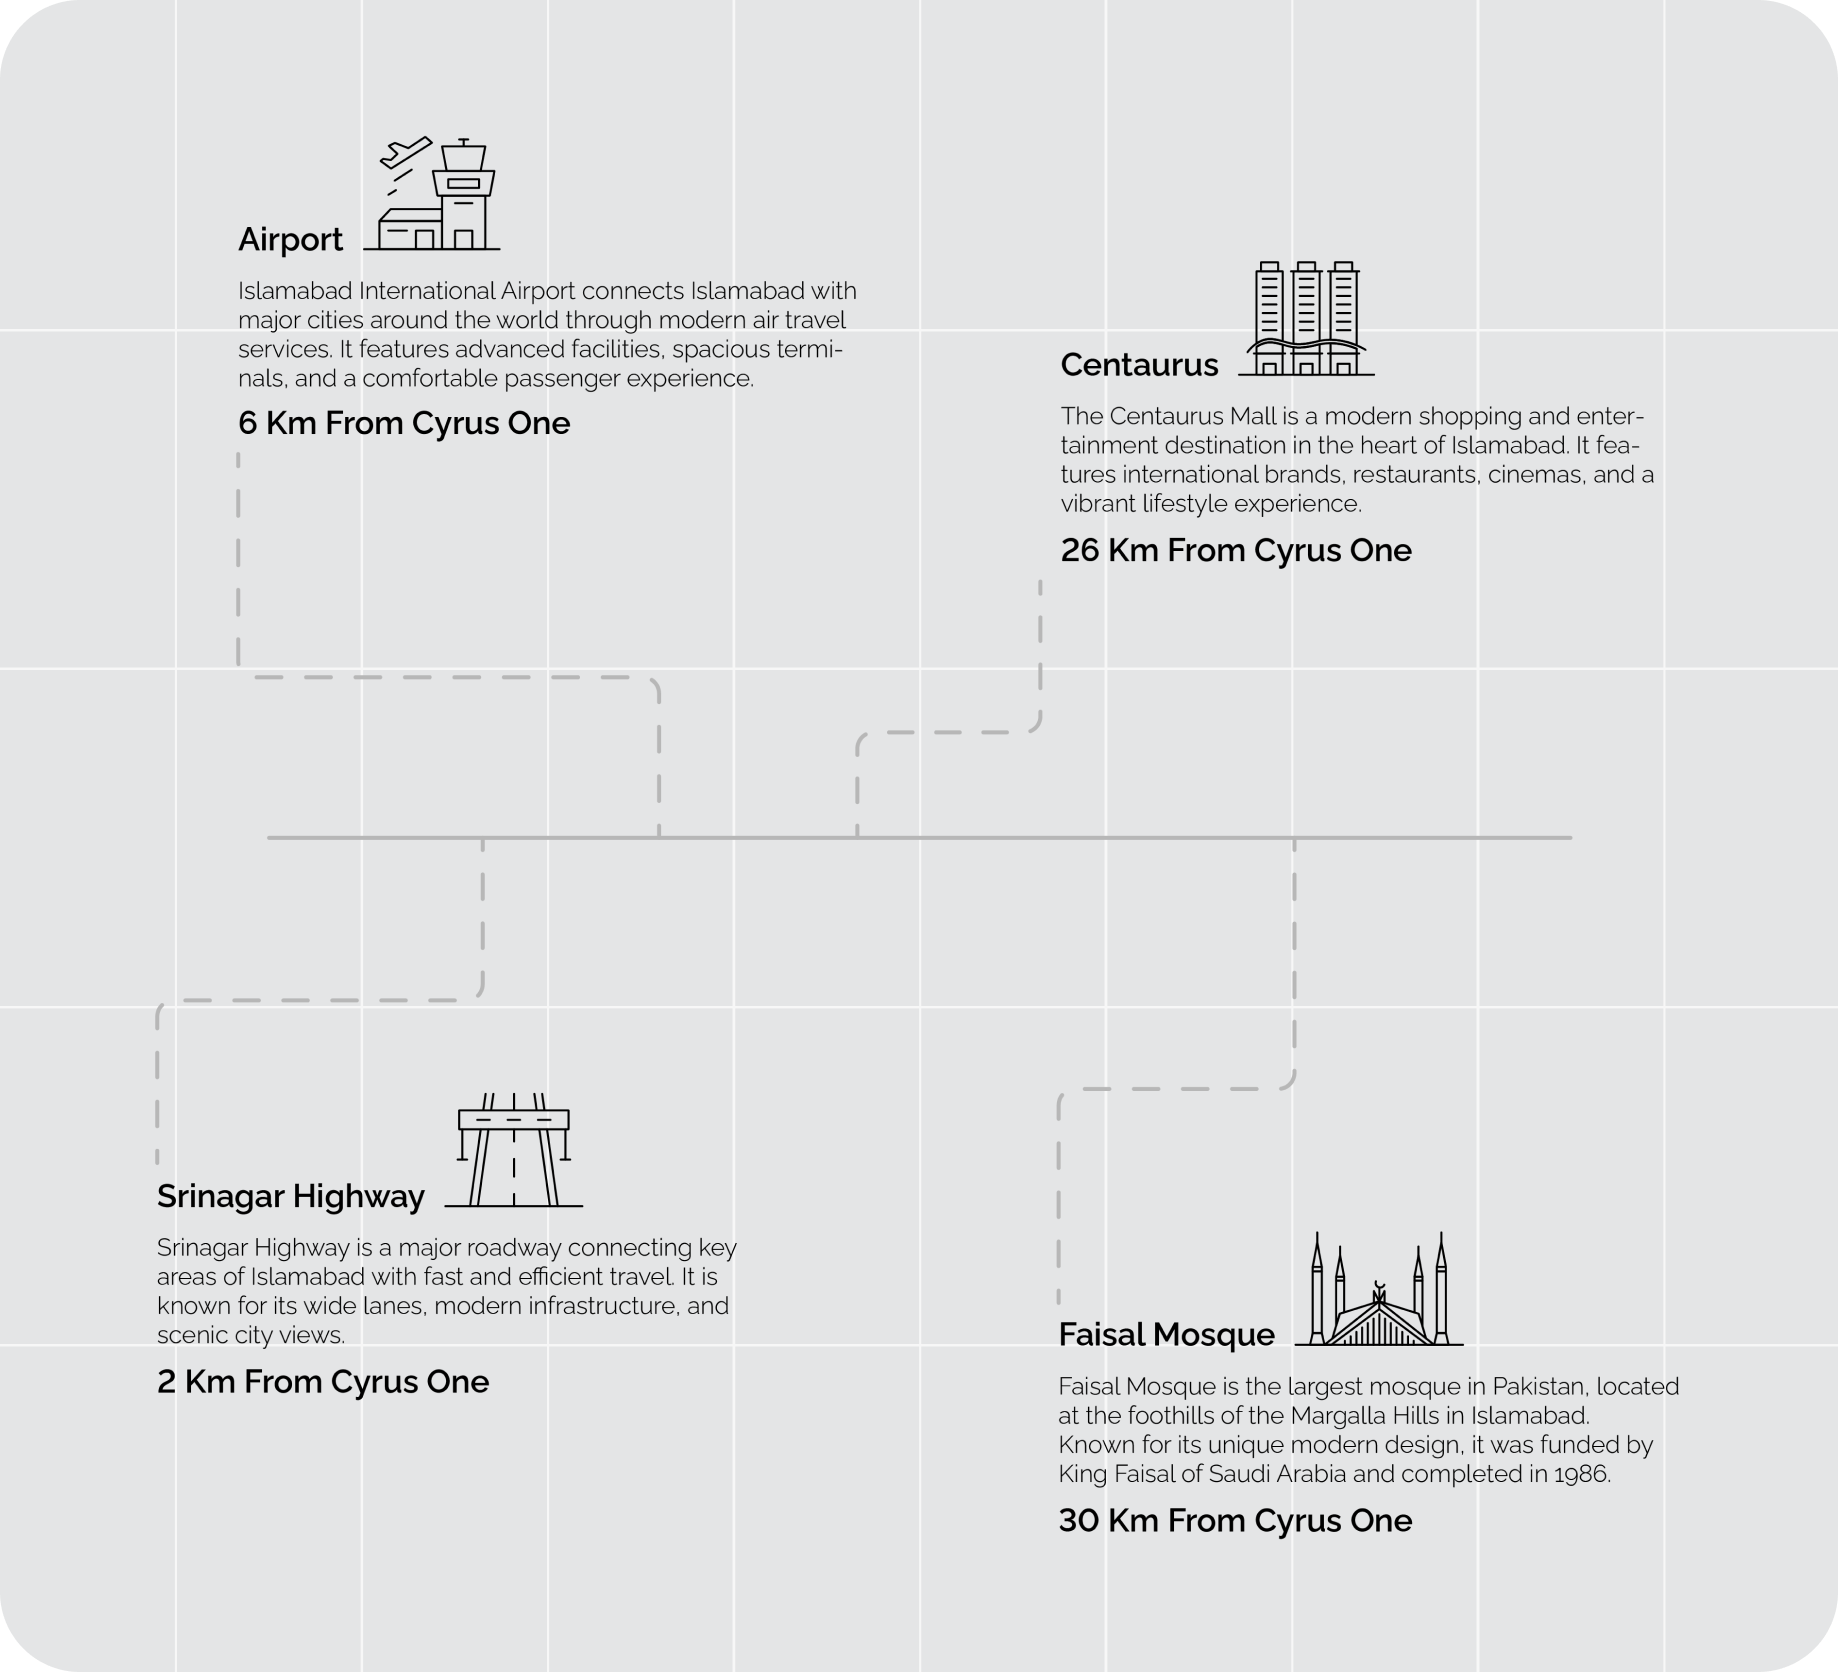
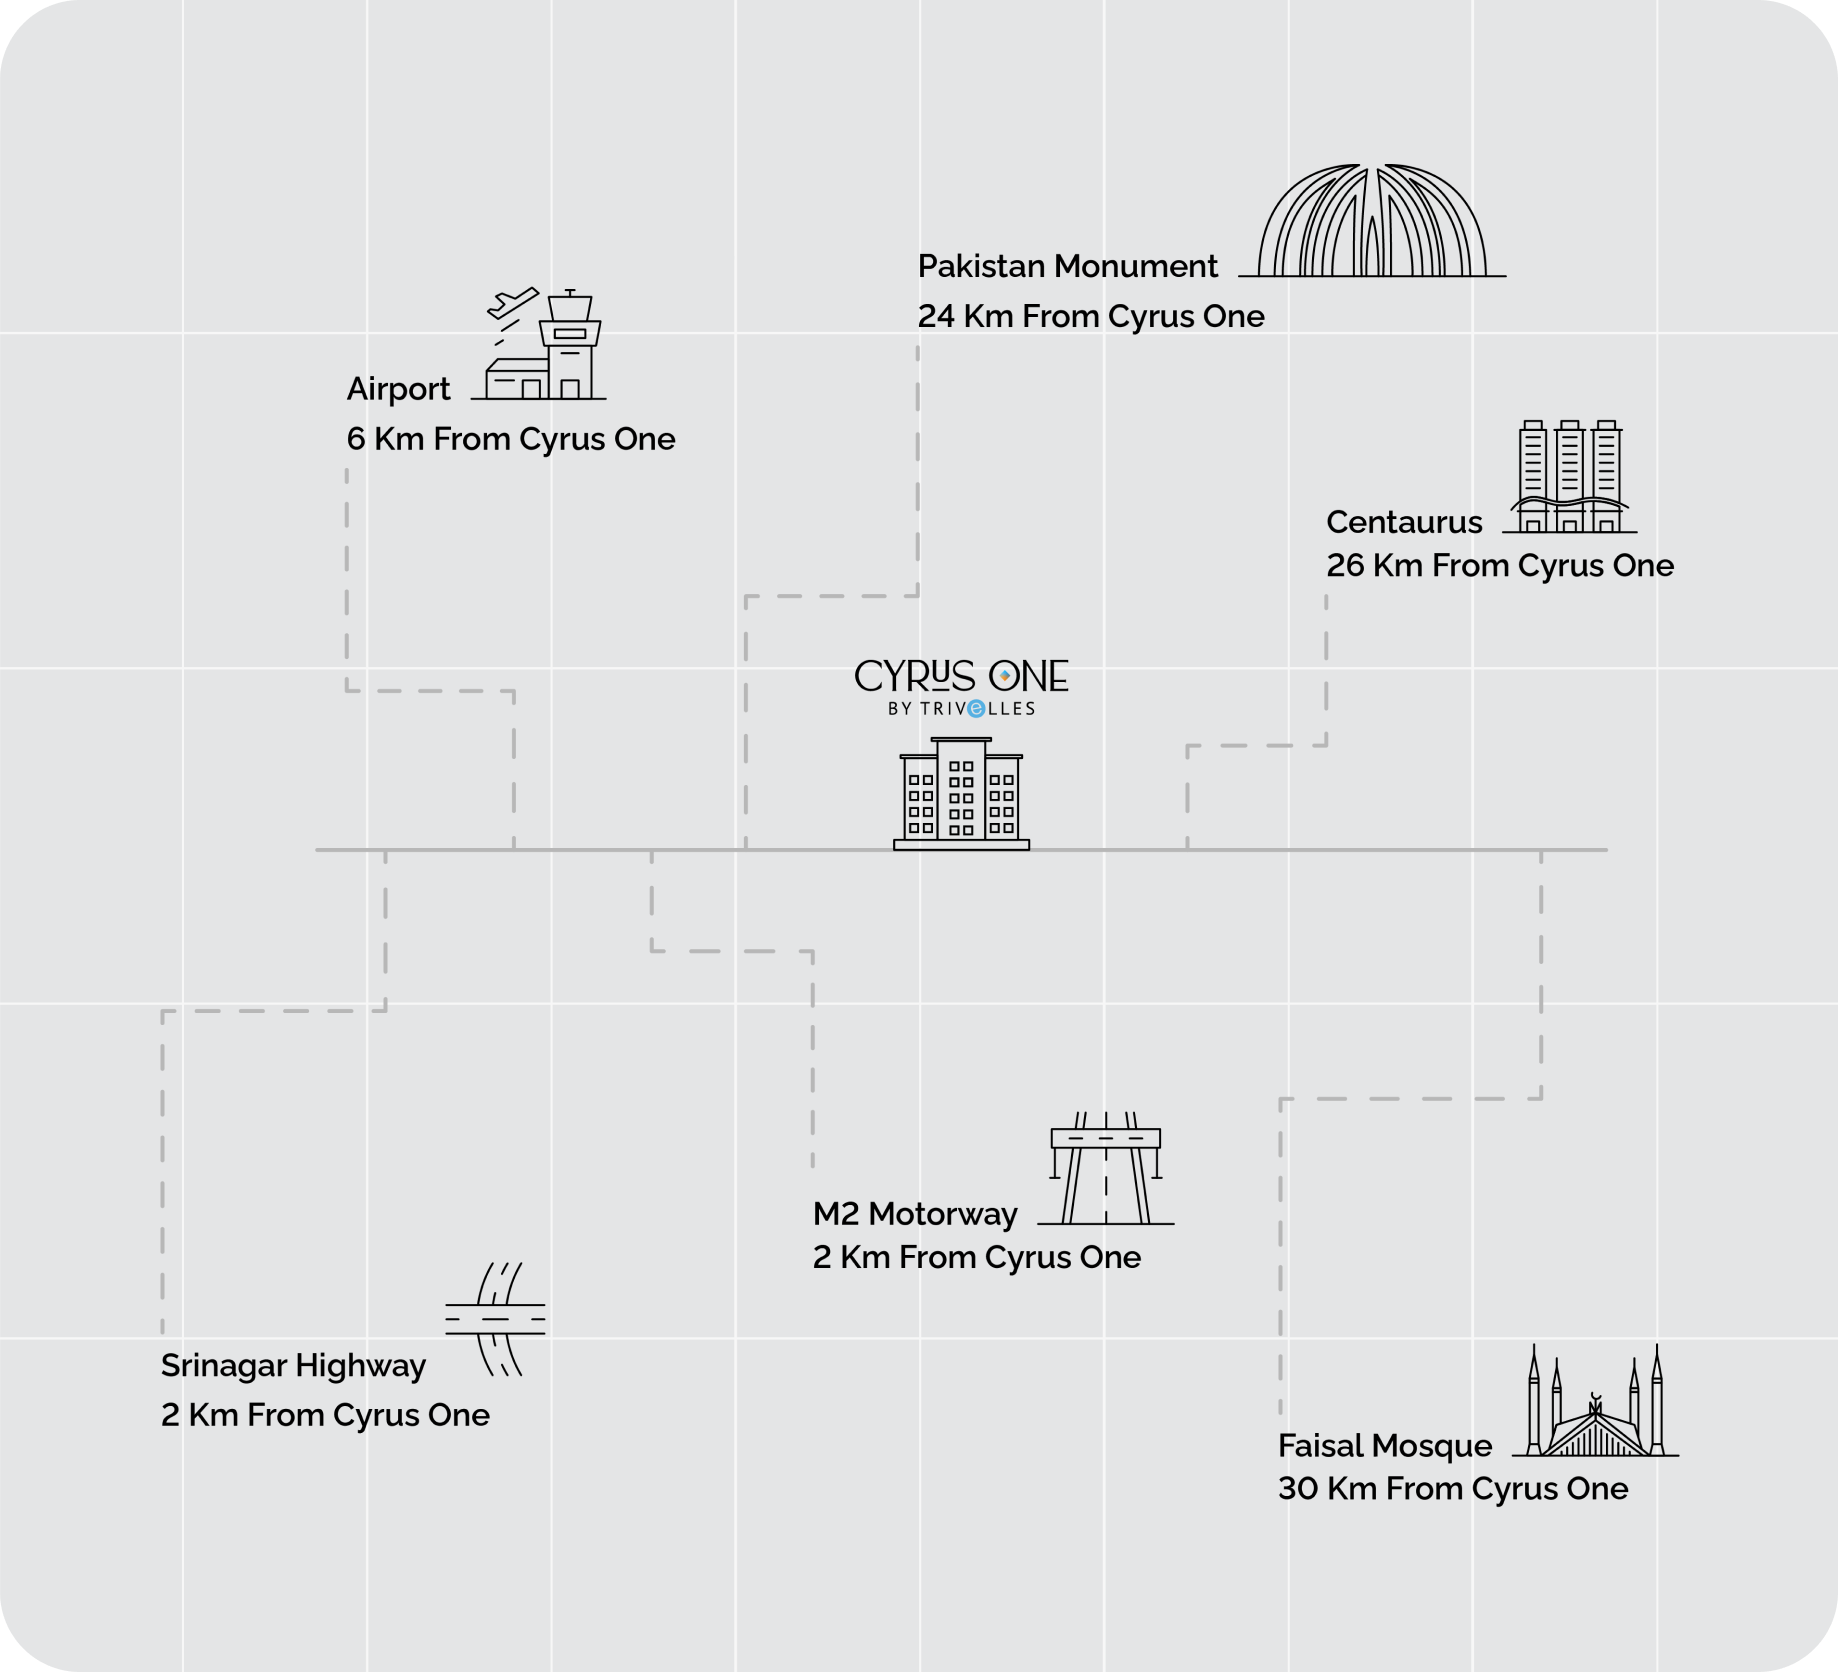
feedback 19 may (#8)
* feedback 18 may (#7)

* phase 1 - initial

* remove admin email const

* minor internal feedback (#2)

* phase 1 - initial (#1)

* phase 1 - initial

* remove admin email const

---------

* minor feedback internal

* cyrus one spacing fixed

* trivelles spelling fixed

---------

* feedback 15 may (#4)

* minor internal feedback (#2)

* phase 1 - initial

* remove admin email const

* minor internal feedback (#2)

* phase 1 - initial (#1)

* phase 1 - initial

* remove admin email const

---------

* minor feedback internal

* cyrus one spacing fixed

* trivelles spelling fixed

---------

---------

* feedback 15 may

---------

* feedback 18 may (#6)

* feedback 15 may (#5)

* phase 1 - initial

* remove admin email const

* minor internal feedback (#2)

* phase 1 - initial (#1)

* phase 1 - initial

* remove admin email const

---------

* minor feedback internal

* cyrus one spacing fixed

* trivelles spelling fixed

---------

* feedback 15 may (#4)

* minor internal feedback (#2)

* phase 1 - initial

* remove admin email const

* minor internal feedback (#2)

* phase 1 - initial (#1)

* phase 1 - initial

* remove admin email const

---------

* minor feedback internal

* cyrus one spacing fixed

* trivelles spelling fixed

---------

---------

* feedback 15 may

---------

---------

* feeback 18 may

* phone number color updated

* hero section, rating section updated

---------

* sync

---------

* feedback 19 may

---------

diff --git a/components/rooms/RoomCard.tsx b/components/rooms/RoomCard.tsx
@@ -113,13 +113,6 @@ export default function RoomCard({ content, availability, searchContext }: RoomC
           );
         })}
 
-        {isUnavailable && (
-          <div className="absolute inset-0 bg-black/50 flex items-center justify-center">
-            <span className="font-bold text-white text-lg tracking-wide uppercase bg-black/60 px-5 py-2 rounded-full">
-              Unavailable
-            </span>
-          </div>
-        )}
 
         {images.length > 1 && (
           <>

diff --git a/app/book/BookingPageClient.tsx b/app/book/BookingPageClient.tsx
@@ -330,7 +330,7 @@ export default function BookingPageClient() {
                 </div>
 
                 {/* Adults, Children, Rooms */}
-                <div className="grid grid-cols-3 gap-4">
+                <div className="grid grid-cols-1 md:grid-cols-3 gap-4">
                   <div>
                     <div className="relative">
                       <select

diff --git a/components/sections/GuestReviewsSection.tsx b/components/sections/GuestReviewsSection.tsx
@@ -75,7 +75,7 @@ export default function GuestReviewsSection() {
             className="object-cover"
             sizes="(max-width: 1024px) 100vw, 50vw"
           />
-          <div className="absolute inset-0 bg-black/45" />
+          <div className="absolute inset-0 bg-gradient-to-b from-black/70 via-black/30 to-transparent" />
 
           <div className="absolute inset-0 p-8 flex flex-col justify-between">
             <div>